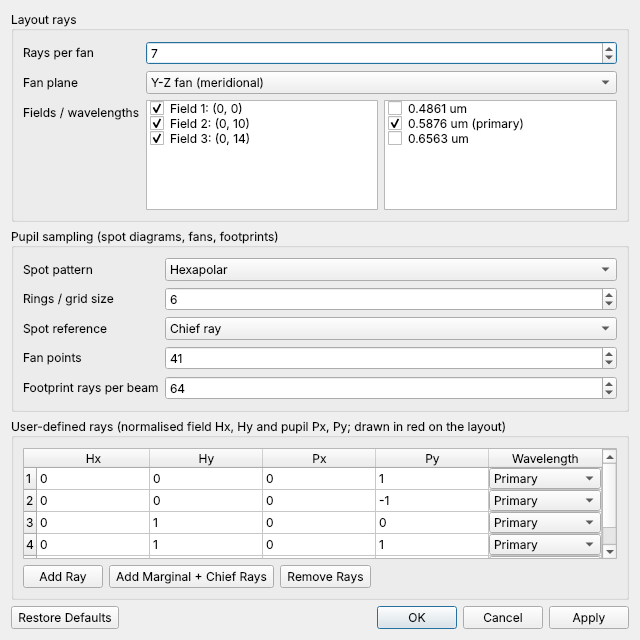
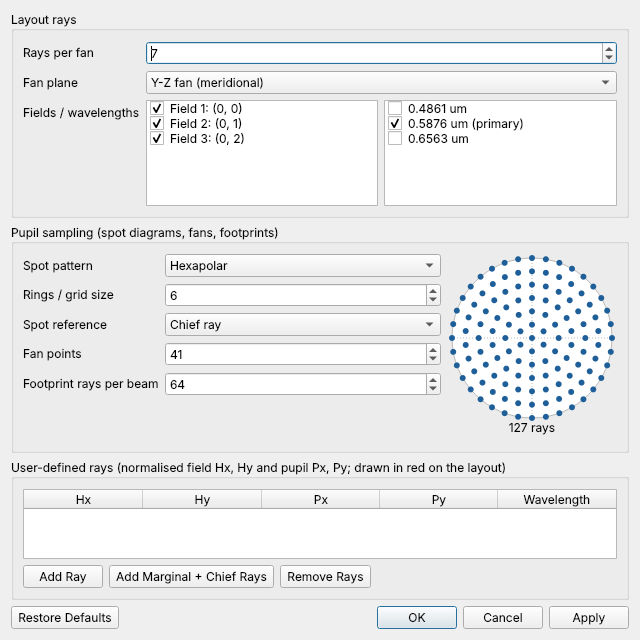
Input Rays: diagram of the spot diagram's pupil sampling pattern
The Pupil sampling group now shows a small picture of the unit pupil with
every ray the spot diagram traces for the chosen pattern and rings/grid
size, plus the ray count; it updates as the settings change.

Claude-Session: https://claude.ai/code/session_014NEYpnasJYmDFJdZwcyEyK

Changed region(s): [[0.0, 0.3438, 0.9688, 0.875], [0.0312, 0.4062, 0.1875, 0.5625], [0.375, 0.1875, 0.4062, 0.2188]]

diff --git a/lensforge_qt/rays_dialog.py b/lensforge_qt/rays_dialog.py
@@ -4,13 +4,62 @@ from __future__ import annotations
 
 from PySide6.QtWidgets import (QAbstractItemView, QComboBox, QDialog, QDialogButtonBox, QFormLayout, QGroupBox,
                                QHBoxLayout, QHeaderView, QListWidget, QListWidgetItem, QMessageBox,
-                               QPushButton, QSpinBox, QTableWidget, QTableWidgetItem, QVBoxLayout)
-from PySide6.QtCore import Qt
+                               QPushButton, QSpinBox, QTableWidget, QTableWidgetItem, QVBoxLayout, QWidget)
+from PySide6.QtCore import QPointF, QRectF, QSize, Qt
+from PySide6.QtGui import QColor, QPainter, QPen
+
+from lensforge import pupil_grid
 
 from . import edits as E
 from . import rays as R
 
 USER_COLUMNS = ["Hx", "Hy", "Px", "Py", "Wavelength"]
+
+
+class PupilPatternPreview(QWidget):
+    """Small picture of the pupil sampling: the unit pupil and every ray the spot diagram traces."""
+
+    def __init__(self, parent=None):
+        super().__init__(parent)
+        self.setMinimumSize(150, 168)
+        self.px, self.py = pupil_grid("hexapolar", 6)
+        self.setToolTip("Where the spot diagram's rays cross the entrance pupil (traced for every field and wavelength)")
+
+    def sizeHint(self):
+        return QSize(170, 190)
+
+    def set_pattern(self, pattern: str, n: int):
+        self.px, self.py = pupil_grid(pattern, n)
+        self.update()
+
+    @property
+    def count(self) -> int:
+        return len(self.px)
+
+    def paintEvent(self, _):
+        p = QPainter(self)
+        p.setRenderHint(QPainter.Antialiasing)
+        pal = self.palette()
+        text_h = p.fontMetrics().height() + 4
+        side = min(self.width(), self.height() - text_h) - 8
+        r = side / 2
+        c = QPointF(self.width() / 2, 4 + r)
+        p.setPen(QPen(pal.mid().color(), 1))
+        p.setBrush(pal.base())
+        p.drawEllipse(c, r, r)
+        p.setPen(QPen(pal.mid().color(), 1, Qt.DotLine))
+        p.drawLine(QPointF(c.x() - r, c.y()), QPointF(c.x() + r, c.y()))
+        p.drawLine(QPointF(c.x(), c.y() - r), QPointF(c.x(), c.y() + r))
+        n = len(self.px)
+        dot = max(0.8, min(3.0, 0.9 * r / max(n, 1) ** 0.5))
+        p.setPen(Qt.NoPen)
+        p.setBrush(QColor("#1f5f99"))
+        for x, y in zip(self.px, self.py):
+            p.drawEllipse(QPointF(c.x() + x * r, c.y() - y * r), dot, dot)
+        p.setPen(pal.text().color())
+        p.drawText(QRectF(0, 4 + side + 2, self.width(), text_h), Qt.AlignHCenter | Qt.AlignTop,
+                   f"{n} rays")
+        p.end()
 
 
 class InputRaysDialog(QDialog):
@@ -46,7 +95,11 @@ class InputRaysDialog(QDialog):
 
         # pupil sampling
         samp = QGroupBox("Pupil sampling (spot diagrams, fans, footprints)")
-        g = QFormLayout(samp)
+        g = QFormLayout()
+        self.preview = PupilPatternPreview()
+        sl = QHBoxLayout(samp)
+        sl.addLayout(g, 1)
+        sl.addWidget(self.preview, 0, Qt.AlignTop)
         self.pattern = QComboBox()
         for p in R.PATTERNS:
             self.pattern.addItem(p.title(), p)
@@ -69,6 +122,9 @@ class InputRaysDialog(QDialog):
         g.addRow("Spot reference", self.reference)
         g.addRow("Fan points", self.fan_points)
         g.addRow("Footprint rays per beam", self.footprint_rays)
+        self.pattern.currentIndexChanged.connect(self._update_preview)
+        self.rings.valueChanged.connect(self._update_preview)
+        self._update_preview()
 
         # user rays
         ub = QGroupBox("User-defined rays (normalised field Hx, Hy and pupil Px, Py; drawn in red on the layout)")
@@ -149,6 +205,13 @@ class InputRaysDialog(QDialog):
     def remove_rays(self):
         for r in sorted({i.row() for i in self.table.selectedIndexes()}, reverse=True):
             self.table.removeRow(r)
+
+    def _update_preview(self, *_):
+        pattern = self.pattern.currentData()
+        self.preview.set_pattern(pattern, self.rings.value())
+        self.rings.setToolTip("Number of rings" if pattern == "hexapolar" else
+                              "Grid size: n x n rays clipped to the pupil" if pattern != "random" else
+                              "n x n random rays")
 
     def restore_defaults(self):
         d = R.DEFAULTS

diff --git a/tests/test_qt_app.py b/tests/test_qt_app.py
@@ -576,6 +576,23 @@ def test_input_rays_dialog(win, tmp_path):
     assert "User ray 1" in rep.text.toPlainText()
 
 
+def test_input_rays_pattern_preview(win):
+    from lensforge import pupil_grid
+    from lensforge_qt.rays_dialog import InputRaysDialog
+    d = InputRaysDialog(win.doc, win)
+    try:
+        d.pattern.setCurrentIndex(d.pattern.findData("hexapolar"))
+        d.rings.setValue(2)
+        assert d.preview.count == 1 + 6 + 12
+        d.pattern.setCurrentIndex(d.pattern.findData("square"))
+        d.rings.setValue(8)
+        assert d.preview.count == len(pupil_grid("square", 8)[0])  # the rays the spot diagram traces
+        img = d.preview.grab().toImage()
+        assert not img.isNull() and img.width() >= 150
+    finally:
+        d.reject()
+
+
 def test_material_dialog(win):
     from lensforge_qt.material_dialog import MaterialDialog
     s = win.doc.system

diff --git a/lensforge_qt/help_text.py b/lensforge_qt/help_text.py
@@ -78,7 +78,7 @@ HELP = {
     "File > Input Rays": (
         "Choose the rays drawn and traced by the ray-based analyses, and define your own rays.",
         "Sets how many rays the layout draws and in which plane, which fields and wavelengths are shown, the "
-        "spot diagram pattern and size, ray fan and footprint sampling, and a table of user-defined rays "
+        "spot diagram pattern and size (with a small diagram of where those rays cross the pupil), ray fan and footprint sampling, and a table of user-defined rays "
         "(field and pupil coordinates) that the layout draws and the User Ray Trace report lists. Saved with "
         "the lens."),
     "File > Load Glass Catalog (AGF)": (

diff --git a/README.md b/README.md
@@ -65,7 +65,7 @@ python -m lensforge_qt --sample achromat            # singlet, achromat, parabol
 |---|---|
 | Menus | File (New, Open, Open Recent, Save, Save As, Insert Lens, Inspect Lens File, System Explorer, Fields, Wavelengths, Input Rays, samples, AGF catalogs), Edit (Undo, Redo, surface editing), Analysis (all plots and reports), Tools (Optimization, Tolerancing, Python Shell, Merit Function Editor), View (toolbar on/off, Customize Toolbar), Help (Help Contents, What's This?, Keyboard Shortcuts). The menu bar is inside the window on every platform, macOS included. |
 | Lens Data Editor (centre) | Spreadsheet of surfaces: type (combo), comment, radius, thickness, material (glass name completion, `nd,vd` model glass, index, MIRROR, or the material picker: "..." button in the cell, right-click or Ctrl+G opens a dialog with the catalog table, a clickable glass map, model glass and air/mirror/constant index), semi-diameter (automatic in grey, typed = fixed `U`), conic, Par 1-8 with headers per surface type (asphere terms, toroid radius X, coordinate-break decentres/tilts, paraxial focal length, binary-2 terms, grating lines/um and order). Cell markers: `V` variable, `M`/`C`/`F`/`E`/`T`/`S`/`P` solves. Right-click: make variable, solves (marginal/chief ray height and angle, F/#, concentric, edge thickness, position, pickup), surface type, stop, surface properties (apertures, obscurations, XY-polynomial terms). Insert / Ctrl+Insert / Shift+Delete insert and delete surfaces, renumbering variables, solves and merit operands. |
-| Input Rays (F5) | Rays drawn in the layout (rays per fan, fan plane, fields, wavelengths), pupil sampling of spot diagrams, fans and footprints, and user-defined rays (Hx, Hy, Px, Py, wavelength) drawn in red on the layout and listed in Analysis > Reports > User Ray Trace. Saved in the lens file's `"ui"` section and undoable. |
+| Input Rays (F5) | Rays drawn in the layout (rays per fan, fan plane, fields, wavelengths), pupil sampling of spot diagrams (with a live diagram of the pattern and ray count), fans and footprints, and user-defined rays (Hx, Hy, Px, Py, wavelength) drawn in red on the layout and listed in Analysis > Reports > User Ray Trace. Saved in the lens file's `"ui"` section and undoable. |
 | System Explorer (F2-F4) | Aperture type/value, ray aiming, field type and field table (weights, vignetting factors, equal-area helper), wavelengths with presets and primary, units, title, notes. |
 | Merit Function Editor (F6) | Operand spreadsheet (type with completion, `name=value` parameters, bound, target, weight, live value and % contribution computed in the background), wizard (default spot / wavefront / MTF merit with glass/air boundaries), searchable operand list, column and operand tooltips. Its help pages (Help button or F1 in the editor) cover the columns, the merit function formula, weights, Hx/Hy/Px/Py ray coordinates, a reference of every operand generated from the code, and a worked spot-size example (File > Sample Lenses > Spot Size Merit Example). |
 | Toolbar | Hidden by default. Every menu command has its own icon and a tooltip saying what it does (name, shortcut, one-line description). View > Customize Toolbar (or right-click the toolbar) opens a dialog listing every menu command by menu; add, remove, reorder and separate buttons, choose icons only / icons with text / text only, or reset to the defaults. The layout, button style and whether the toolbar is shown are saved between sessions. |
